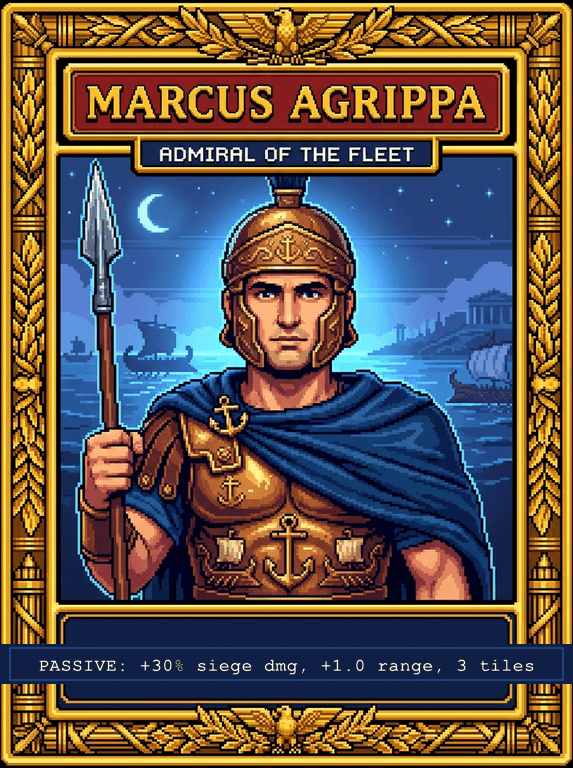
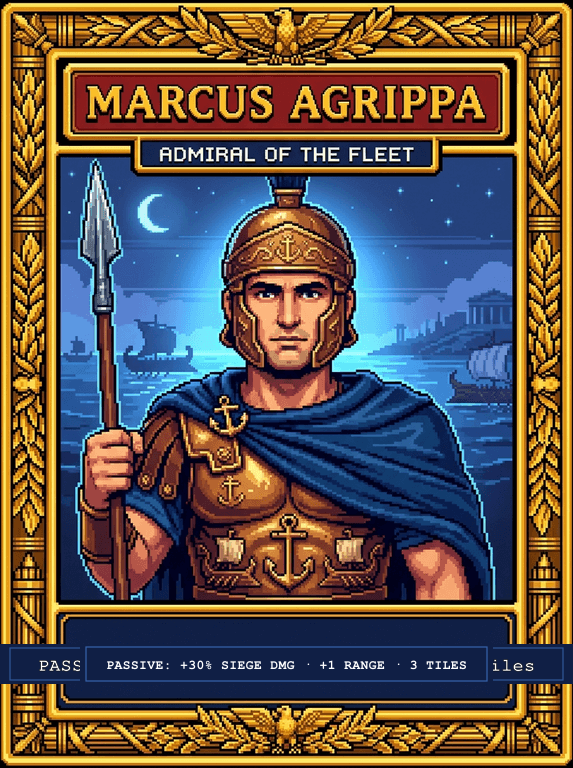
Hero passives cleanup: fix card overflow, prune Agricola, condense Sulla, buff Marian Formation
Five-part pass per user feedback that the hero copy was inconsistent
and Marian Formation felt weak:

1. Card portrait banners — Marius + Agrippa text was spanning past
   the colored ribbon onto the gold corner ornaments. Updated
   tools/rebuild_hero_card_banner.cjs to inset the banner by 80px on
   each side (matching the actual purple/blue ribbon width sampled
   off the original AI cards) and dropped font-size 18 → 13 so the
   text fits comfortably within the ribbon.

2. Agricola passive — dropped the +20% local ranged-tower damage
   aura. Passive shape DUAL → GLOBAL. He now contributes ONLY the
   "every tower can hit flyers" global effect. Removed the Agricola
   1.20× hook in CombatResolver.ts. Updated towers.json ability
   string + card portrait banner to match.

3. Sulla passive copy condensed. Description was a multi-clause
   paragraph; now reads "Every tower within 3 tiles converts to
   FIRE damage and gains +15% damage." Card portrait banner updated
   to "FIRE CONVERT · +15% DMG · 3 TILES" (previously had a stale
   "+35% fire dmg aura within 4 tiles" baked in from a much older
   build of Sulla's passive). towers.json ability string condensed too.

4. Card copy now matches engine math across all 6 heroes:
   - Marius: +30% melee dmg, 3 tiles
   - Agrippa: +30% siege dmg + 1 tile range, 3 tiles
   - Agricola: all towers can hit flyers (global, no damage rider)
   - Scipio: +25% vs bosses (global)  [already correct]
[…]

Changed region(s): [[0.1483, 0.8438, 0.534, 0.9062], [0.5637, 0.8438, 0.8604, 0.9062]]

diff --git a/tests/heroes.test.ts b/tests/heroes.test.ts
@@ -368,24 +368,27 @@ describe('herodefs.json shape (single source of tuning)', () => {
   // "ELEMENTAL_FIRE"` shape) to a DAMAGE_TYPE_CONVERSION passive that
   // overrides nearby towers' damage type to FIRE. The fire "coverage"
   // moves from a `filter` to a `convertTo` field. Test reads both.
-  it('aura filters cover the 5 damage types (including Sulla\'s fire conversion target)', () => {
+  it('aura filters cover the expected damage-type slots', () => {
     const filters = HERO_POOL.map(id => {
       const def: any = (HERO_DEFS as any)[id];
-      // Marius/Agrippa use top-level filter; Agricola has
-      // passive.local.filter; Scipio uses VS_BOSS (no damage-type
-      // filter); Caesar is unfiltered global; Sulla uses convertTo
-      // (DAMAGE_TYPE_CONVERSION passive — towers within 2 tiles
-      // get their damage type overridden to convertTo).
+      // Marius/Agrippa use top-level filter; Scipio uses VS_BOSS
+      // (no damage-type filter); Caesar is unfiltered global; Sulla
+      // uses convertTo (DAMAGE_TYPE_CONVERSION passive — towers
+      // within 3 tiles get their damage type overridden to convertTo).
+      // 2026-05-22 — Agricola's passive simplified to a single
+      // GLOBAL effect (melee-can-hit-flyers) with NO damage filter
+      // and NO local aura. He no longer contributes a PHYS_RANGED
+      // entry to this set; coverage is intentional (his basic-attack
+      // damage type is still PHYS_RANGED, just not the passive).
       return def.passive?.filter
-        ?? def.passive?.local?.filter
         ?? def.passive?.convertTo
         ?? null;
     });
-    expect(filters).toContain('PHYS_MELEE');
-    expect(filters).toContain('PHYS_RANGED');
-    expect(filters).toContain('SIEGE');
+    expect(filters).toContain('PHYS_MELEE');         // Marius local aura
+    expect(filters).toContain('SIEGE');              // Agrippa local aura
     expect(filters).toContain('ELEMENTAL_FIRE');     // Sulla's convertTo target
-    // VS_BOSS is the Scipio filter; Caesar carries no filter at all.
+    // VS_BOSS is the Scipio filter; Caesar carries no filter at all;
+    // Agricola carries no filter at all (global anti-air effect only).
     expect(filters).toContain('VS_BOSS');
   });
 });

diff --git a/src/systems/CombatResolver.ts b/src/systems/CombatResolver.ts
@@ -638,11 +638,12 @@ export function tickCombat(state: GameStateShape, dt: number, hooks: CombatHooks
         // so the range portion of the passive was silently broken).
         dm *= 1.30;
       }
-      if (state.activeHeroId === 'HERO_AGRICOLA'
-          && t.damageType === DamageType.PHYS_RANGED
-          && dh <= 3 * GRID.TILE) {
-        dm *= 1.20;
-      }
+      // 2026-05-22 — Agricola local +20% ranged-tower damage aura
+      // removed per user feedback that it stacked too strongly with
+      // the global anti-air passive. He now contributes ONLY the
+      // "melee can hit flyers" global effect, no per-tower damage
+      // multiplier. Kept the surrounding `if heroTowerForAura` scaffold
+      // intact for Marius/Agrippa/Sulla which still use local auras.
       // 2026-05-22 V19 — SULLA PASSIVE BALANCE ADJUSTMENT. Original
       // V92 rework dropped the damage rider entirely (TYPE-only), which
       // left Sulla as the only hero whose passive contributed zero
@@ -656,13 +657,18 @@ export function tickCombat(state: GameStateShape, dt: number, hooks: CombatHooks
         dm *= 1.15;
       }
     }
-    // Marian Formation per-tower stamp: 3 nearest melee get +X% speed
-    // + shared-crit access during the window. Crit comes from the
-    // Tower's own crit application later; here we just compound speed.
+    // Marian Formation per-tower stamp: N nearest melee get +X% speed,
+    // +Y% damage, and shared-crit access during the window. Crit comes
+    // from the Tower's own crit application later; here we compound
+    // speed + damage.
+    // 2026-05-22 — Damage rider added (was speed-only). Drives the
+    // new dmgBonusPercent param on the ability.
     const marianUntil = (t as any).__marianFormationUntilTick ?? 0;
     if (state.tick < marianUntil) {
       const sMult = (t as any).__marianSpeedMult ?? 1.0;
+      const dMult = (t as any).__marianDmgMult ?? 1.0;
       sm *= sMult;
+      dm *= dMult;
     }
     // 2026-05-21 — Tier-3 ability windows removed (Ides of March,
     // Battle of Actium). Their speed-multiplier readers used to live

diff --git a/src/systems/HeroSystem.ts b/src/systems/HeroSystem.ts
@@ -354,9 +354,14 @@ function executeMARIAN_FORMATION(state: GameStateShape, hero: Tower, params: any
     const def: any = (towersData as any)[t.type];
     maxCrit = Math.max(maxCrit, def?.critChance ?? 0);
   }
+  // 2026-05-22 — Damage rider added. Per-tower __marianDmgMult flag
+  // read by CombatResolver during damage resolution alongside the
+  // existing speed mult.
+  const dmgMult = 1 + (params.dmgBonusPercent ?? 0) / 100;
   for (const t of picked) {
     (t as any).__marianFormationUntilTick = until;
     (t as any).__marianSpeedMult = speedMult;
+    (t as any).__marianDmgMult = dmgMult;
     if (params.shareCrit) (t as any).__marianSharedCrit = maxCrit;
   }
   // Signature VFX: purple connecting lines from Marius to each
